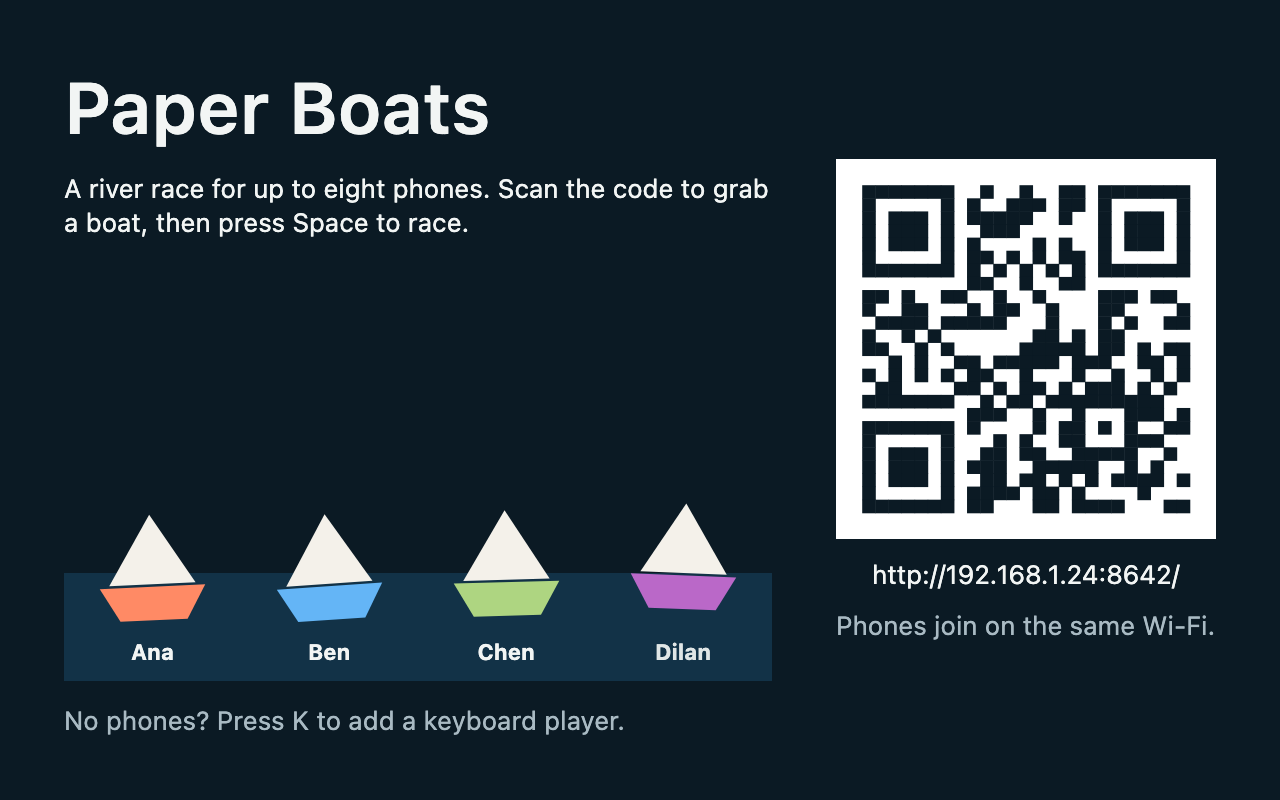
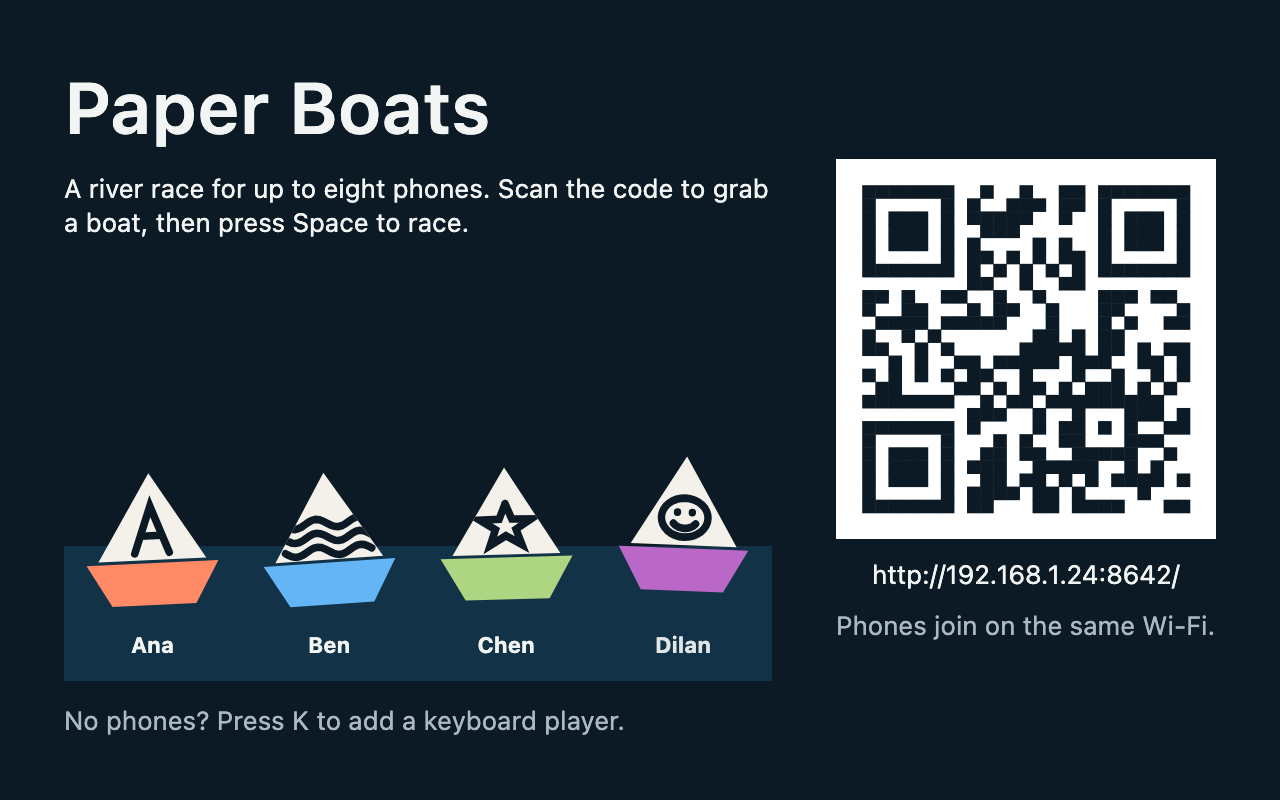
README and media: drawn sails, the drawing screen

Changed region(s): [[0.0312, 0.5625, 0.625, 0.8438]]

diff --git a/README.md b/README.md
@@ -1,8 +1,8 @@
 # Paper Boats
 
 A couch party game for up to eight people. The computer is the big screen, a night river full of
-floating lanterns. Everyone else grabs a boat with their phone: scan the QR code, type a name, then
-steer with one thumb and paddle with the other. Phones need nothing installed. The controller is a
+floating lanterns. Everyone else grabs a boat with their phone: scan the QR code, type a name, draw
+your own sail, then steer with one thumb and paddle with the other. Phones need nothing installed. The controller is a
 web page the game serves itself, compiled from the same Kotlin as the game. There is also an Android
 app.
 
@@ -78,6 +78,11 @@ guest or campus Wi-Fi that stops devices from seeing each other. A phone hotspot
 | Slide on the left half | Steer |
 | Press the right half | Paddle for a burst of speed |
 
+After you type your name, the phone shows a blank paper sail in your boat's colour. Draw on it with
+a finger: your initials, a face, a flag. Press Set sail and your drawing goes up on your boat on the
+big screen, so everyone can tell whose boat is whose in the lobby, the race and the results. Skip it
+and you sail plain paper. Between races the results screen on your phone lets you redraw it.
+
 Collect lanterns and keep off rocks and logs. Paddle into another boat to spin it out and take one of
 its lanterns. In the last ten seconds, golden hour, every lantern counts double. Most lanterns after
 60 seconds wins.
@@ -95,10 +100,10 @@ bumps taken, and Golden hour for the best last ten seconds. Your phone shows you
 award, and buzzes when you pick up a lantern, crash or win. If a phone drops off the Wi-Fi or the page
 reloads, it rejoins the race in the same boat.
 
-| | | |
-|---|---|---|
-| ![Lobby with the QR code](docs/lobby.png) | ![Countdown](docs/countdown.png) | ![Mid-race](docs/race.png) |
-| ![Golden hour](docs/golden-hour.png) | ![Results with awards](docs/results.png) | ![Phone controller](docs/phone-pad.png) |
+| | | | |
+|---|---|---|---|
+| ![Lobby with drawn sails and the QR code](docs/lobby.png) | ![Countdown](docs/countdown.png) | ![Mid-race](docs/race.png) | ![Golden hour](docs/golden-hour.png) |
+| ![Results with awards](docs/results.png) | ![Drawing a sail on the phone](docs/phone-sail.png) | ![Phone controller](docs/phone-pad.png) | ![Phone results](docs/phone-results.png) |
 
 ## How it works
 
@@ -113,16 +118,16 @@ reloads, it rejoins the race in the same boat.
 |---|---|
 | `game/Race.kt`, `River.kt` | The race: steering, paddling, lanterns, rocks, logs, whirlpools, ramming, golden hour, a catch-up current. No UI and no clock, deterministic for a seed. It reports what happened as `RaceEvent`s. |
 | `game/Award.kt` | Picks the awards from a race's events. |
-| `party/PartySession.kt` | Lobby, countdown, race, results and the next river; seats and colours for eight players; rejoining in the same boat. |
+| `party/PartySession.kt` | Lobby, countdown, race, results and the next river; seats and colours for eight players; rejoining in the same boat; checking each drawn sail before it goes on a boat. |
 | `protocol/Messages.kt` | Messages between phone and host as `kotlinx.serialization` sealed interfaces. |
 | `party/ControllerClient.kt` | The phone's WebSocket link (Ktor client), used by the browser, the Android app and the tests. |
-| `ui/` | Every screen in Compose: lobby, countdown, river, scoreboard and results on the big screen; address, name, pad and results on the phone. |
+| `ui/` | Every screen in Compose: lobby, countdown, river, scoreboard and results on the big screen; address, name, sail drawing, pad and results on the phone. |
 | `ui/fx/`, `ui/RiverFx.kt` | Easing, particles and a camera with screen shake, driven by race events. |
 
 ## Tests and style
 
 ```bash
-./gradlew :composeApp:desktopTest :androidApp:testDebugUnitTest   # 97 tests
+./gradlew :composeApp:desktopTest :androidApp:testDebugUnitTest   # 112 tests
 ./gradlew ktlintCheck                                             # Kotlin coding conventions
 ```
 
@@ -140,6 +145,7 @@ Style follows the official Kotlin coding conventions, checked by ktlint (`intell
 - [x] Web controller (Kotlin/Wasm)
 - [x] Android controller app
 - [x] Three rivers, ramming, golden hour, awards, reconnecting phones
+- [x] Draw your own sail on the phone
 - [ ] Sound
 - [ ] iOS controller app
 
